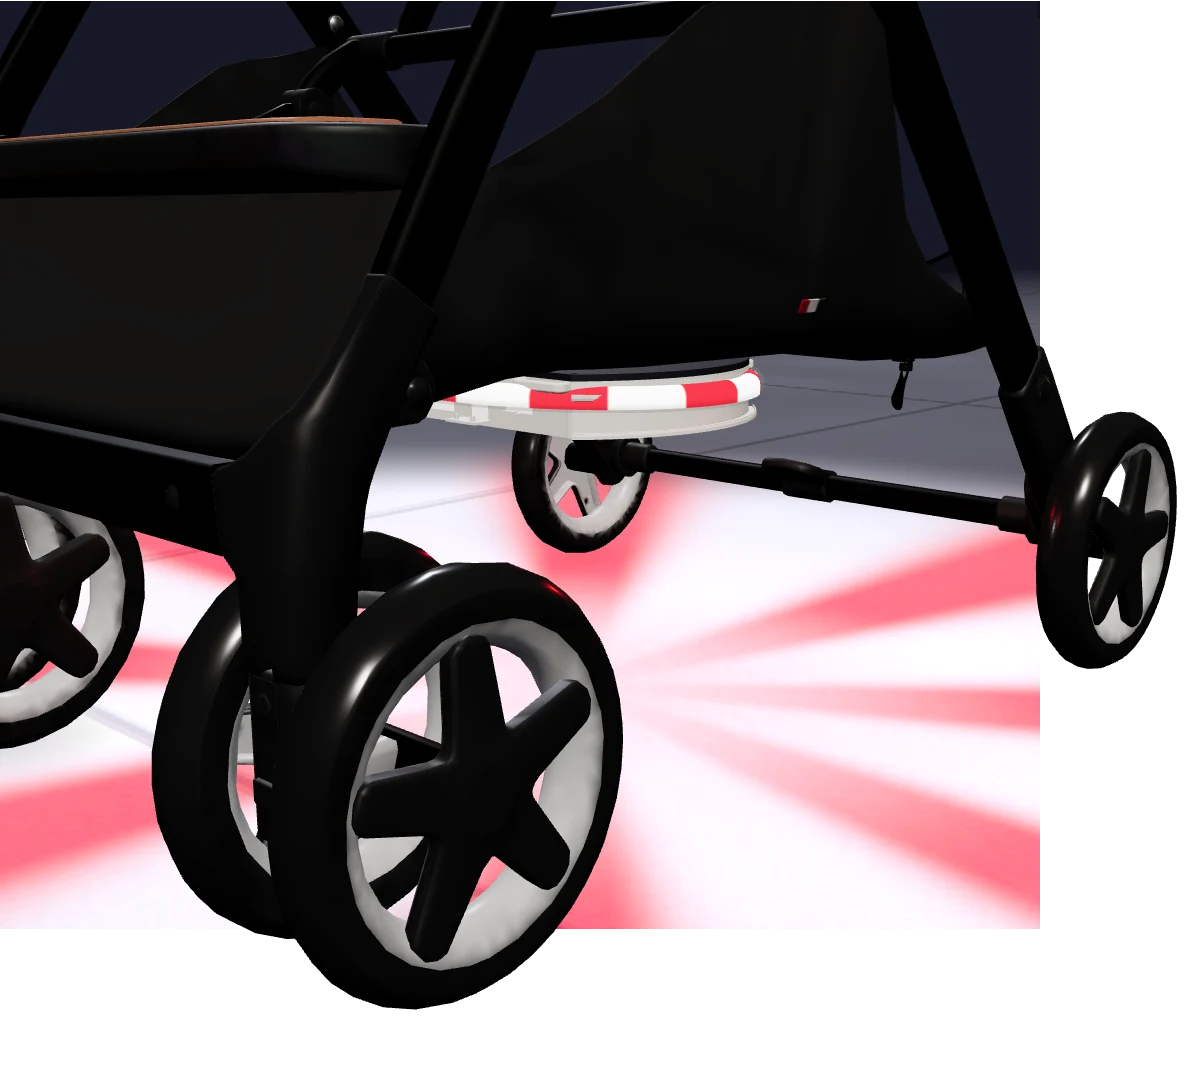
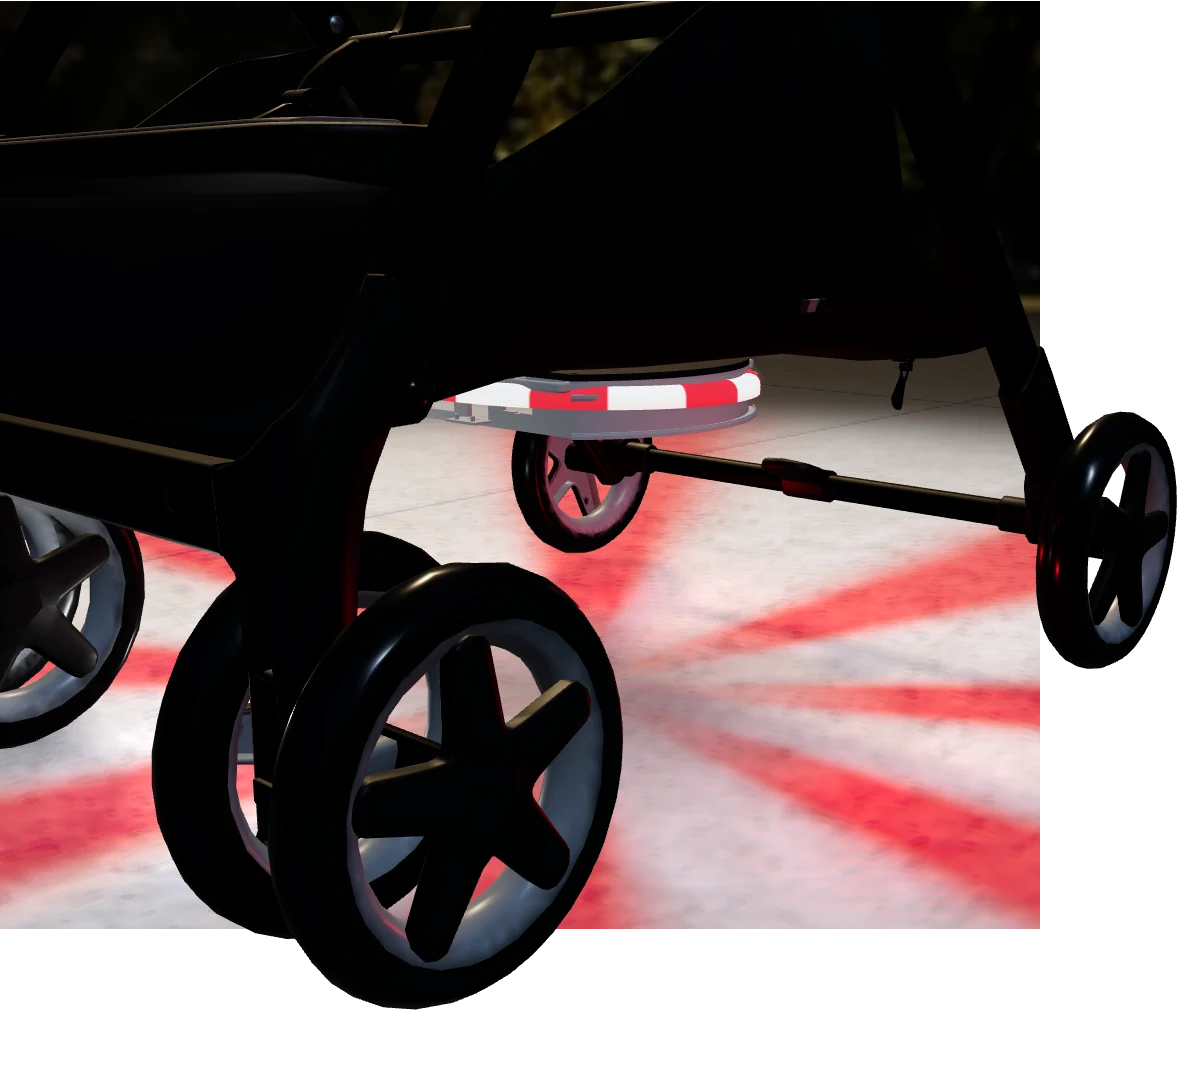
Refactor code structure for improved readability and maintainability

diff --git a/src/components/home/stroller-hero-scene.ts b/src/components/home/stroller-hero-scene.ts
@@ -39,12 +39,15 @@ const sidewalkPatternGLSL = `
     vec2 footprint = fwidth(grainUv);
     float grainVisibility = 1.0 - smoothstep(0.5, 1.8, max(footprint.x, footprint.y));
     float grain = (sidewalkNoise(grainUv) - 0.5) * grainVisibility;
+    // Fine aggregate and shallow pores break up the smooth, tiled appearance.
+    float aggregate = sidewalkNoise(world * 38.0) * 0.65 + sidewalkNoise(world * 83.0) * 0.35 - 0.5;
+    float pores = smoothstep(0.72, 0.88, sidewalkNoise(grainUv * 0.75)) * grainVisibility;
     float mottle = sidewalkNoise(world * sidewalkMottleScale) - 0.5;
     float slab = sidewalkHash(floor(grid)) - 0.5;
     float reflectance = (1.0 + slab * sidewalkSlabVariation + mottle * sidewalkMottleStrength
-      + grain * sidewalkGrainStrength) * (1.0 - seam * sidewalkSeamDarkness);
-    return vec3(reflectance, grain * sidewalkGrainDepth - seam * sidewalkSeamDepth,
-      (grain + seam) * sidewalkRoughnessVariation);
+      + grain * sidewalkGrainStrength + aggregate * 0.42 - pores * 0.18) * (1.0 - seam * sidewalkSeamDarkness);
+    return vec3(reflectance, (grain + aggregate * 0.6 - pores * 0.3) * sidewalkGrainDepth - seam * sidewalkSeamDepth,
+      (grain + aggregate + seam) * sidewalkRoughnessVariation);
   }
 `;
 
@@ -68,7 +71,7 @@ function createSidewalkUniforms() {
 }
 
 function createSidewalkMaterial(uniforms: ReturnType<typeof createSidewalkUniforms>) {
-  const material = new THREE.MeshStandardMaterial({ color: config.stage.floor.color, roughness: config.stage.floor.roughness });
+  const material = new THREE.MeshStandardMaterial({ color: config.stage.floor.color, roughness: config.stage.floor.roughness, transparent: true });
   material.onBeforeCompile = (shader) => {
     Object.assign(shader.uniforms, uniforms);
     shader.vertexShader = shader.vertexShader.replace("#include <common>", "#include <common>\nvarying vec3 vSidewalkWorld;")
@@ -77,7 +80,13 @@ function createSidewalkMaterial(uniforms: ReturnType<typeof createSidewalkUnifor
       .replace("#include <common>", `#include <common>\nvarying vec3 vSidewalkWorld;\n${sidewalkPatternGLSL}`)
       .replace("#include <color_fragment>", `#include <color_fragment>
         vec3 sidewalkDetail = sidewalkSurface(vSidewalkWorld.xz);
-        diffuseColor.rgb *= sidewalkDetail.x;`)
+        diffuseColor.rgb *= sidewalkDetail.x;
+        // Pull the unlit pavement closer behind the stroller; the separate
+        // device spill still illuminates the nearby concrete at full strength.
+        float pavementDistance = length(vSidewalkWorld.xz);
+        float behindStroller = smoothstep(-0.15, 0.55, -dot(vSidewalkWorld.xz, vec2(0.65, 0.76)));
+        diffuseColor.rgb *= mix(1.0, 0.18, behindStroller * smoothstep(0.45, 1.6, pavementDistance));
+        diffuseColor.a *= 1.0 - smoothstep(1.4, 4.0, pavementDistance);`)
       .replace("#include <roughnessmap_fragment>", `#include <roughnessmap_fragment>
         roughnessFactor = clamp(roughnessFactor + sidewalkDetail.z, 0.04, 1.0);`)
       .replace("#include <normal_fragment_maps>", `#include <normal_fragment_maps>
@@ -89,7 +98,7 @@ function createSidewalkMaterial(uniforms: ReturnType<typeof createSidewalkUnifor
           normal = normalize(abs(sidewalkDet) * normal - sign(sidewalkDet) * gradient);
         }`);
   };
-  material.customProgramCacheKey = () => "glowbaby-sidewalk-v1";
+  material.customProgramCacheKey = () => "glowbaby-sidewalk-v4";
   return material;
 }
 
@@ -221,13 +230,20 @@ export async function createHeroScene(host: HTMLElement, initialMode: LightMode,
     view.toneMapping = THREE.ACESFilmicToneMapping;
     view.toneMappingExposure = config.stage.exposure;
     view.shadowMap.enabled = true;
-    view.shadowMap.type = THREE.PCFSoftShadowMap;
+    view.shadowMap.type = THREE.PCFShadowMap;
     // Only the camera and light colors animate; reuse the static occlusion maps.
     view.shadowMap.autoUpdate = false;
     view.shadowMap.needsUpdate = true;
     view.debug.onShaderError = () => { throw new Error("Hero shader initialization failed"); };
-    const sceneBackground = new THREE.Color(config.environment.background);
+    const sceneBackground = resources.track(await new THREE.TextureLoader().loadAsync("/hero/night-park-environment.webp"));
+    signal?.throwIfAborted();
+    sceneBackground.mapping = THREE.EquirectangularReflectionMapping;
+    sceneBackground.colorSpace = THREE.SRGBColorSpace;
     scene.background = sceneBackground;
+    scene.environment = sceneBackground;
+    scene.environmentIntensity = 0.65;
+    scene.backgroundIntensity = 0.8;
+    scene.backgroundBlurriness = 0.025;
     scene.fog = new THREE.Fog(config.environment.background, config.stage.fogNear, config.stage.fogFar);
     const camera = new THREE.PerspectiveCamera(config.camera.fov, 1, 0.05, 12);
     const cameraTarget = new THREE.Vector3().fromArray(config.camera.target);
@@ -266,6 +282,22 @@ export async function createHeroScene(host: HTMLElement, initialMode: LightMode,
     const [stroller, bottom, top] = models.map((result) => {
       if (result.status !== "fulfilled") throw new Error("Missing model");
       return result.value.scene;
+    });
+    const mutedMaterials = new Set<THREE.Material>();
+    stroller.traverse((object) => {
+      if (!(object instanceof THREE.Mesh)) return;
+      for (const material of Array.isArray(object.material) ? object.material : [object.material]) {
+        if (!(material instanceof THREE.MeshStandardMaterial) || mutedMaterials.has(material)) continue;
+        mutedMaterials.add(material);
+        // Retain the original weave, seams and shading; mute the base color only.
+        material.onBeforeCompile = (shader) => {
+          shader.fragmentShader = shader.fragmentShader.replace("#include <color_fragment>", `#include <color_fragment>
+            float strollerLuma = dot(diffuseColor.rgb, vec3(0.2126, 0.7152, 0.0722));
+            diffuseColor.rgb = mix(vec3(strollerLuma), diffuseColor.rgb, 0.24) * vec3(0.79, 0.82, 0.84);`);
+        };
+        material.customProgramCacheKey = () => "muted-stroller-v1";
+        material.needsUpdate = true;
+      }
     });
     const strollerBounds = new THREE.Box3().setFromObject(stroller);
     const size = strollerBounds.getSize(new THREE.Vector3());
@@ -319,9 +351,20 @@ export async function createHeroScene(host: HTMLElement, initialMode: LightMode,
     const keyConfig = config.environment.key;
     const key = resources.track(new THREE.DirectionalLight(keyConfig.color, keyConfig.intensity));
     key.position.fromArray(keyConfig.position);
-    // Environment lights reveal the stroller, but must not imply an overhead shadow source.
-    key.castShadow = false;
-    scene.add(key);
+    // The warm park lamp shapes the canopy and casts real self-shadows into
+    // the seat and basket, rather than illuminating every surface equally.
+    key.target.position.set(0, 0.4, 0);
+    key.castShadow = true;
+    key.shadow.mapSize.setScalar(2048);
+    key.shadow.camera.left = key.shadow.camera.bottom = -1.5;
+    key.shadow.camera.right = key.shadow.camera.top = 1.5;
+    key.shadow.camera.near = 0.1;
+    key.shadow.camera.far = 8;
+    key.shadow.bias = -0.0001;
+    key.shadow.normalBias = 0.002;
+    key.shadow.radius = 7;
+    key.shadow.intensity = 0.55;
+    scene.add(key, key.target);
     const rim = resources.track(new THREE.DirectionalLight(config.environment.rim.color, config.environment.rim.intensity));
     rim.position.fromArray(config.environment.rim.position);
     scene.add(rim);
@@ -386,6 +429,10 @@ export async function createHeroScene(host: HTMLElement, initialMode: LightMode,
           float radius = length(p);
           float angle = atan(-p.y, p.x) / 6.2831853;
           vec3 color = spillLightColor(angle, time, mode);
+          // Angular colors converge softly instead of forming a pinwheel tip.
+          if (mode > 0.5 && mode < 1.5) {
+            color = mix(vec3(dot(color, vec3(0.2126, 0.7152, 0.0722))), color, smoothstep(0.01, 0.09, radius) * 0.85);
+          }
           float a = exp(-dot(p, p) * falloff) * (1.0 - smoothstep(edge.x, edge.y, radius));
           a *= mix(centerStrength, 1.0, smoothstep(0.0, centerRadius, radius));
           if (mode < 0.5) color = mix(holidayColor(0.5), color, smoothstep(0.0, centerBlendRadius, radius));
@@ -433,7 +480,16 @@ export async function createHeroScene(host: HTMLElement, initialMode: LightMode,
       light.shadow.bias = config.underglow.shadowBias;
       light.shadow.normalBias = config.underglow.shadowNormalBias;
       scene.add(light, light.target);
-      return { angle, light };
+      // A restrained approximation of colored light reflected off the pavement.
+      // Finite range keeps this fill below the seat; it follows the diffuser palette.
+      const bounce = resources.track(new THREE.PointLight("#ffffff", 0, config.bounce.distance, 2));
+      bounce.position.set(
+        config.assembly.position[0] + Math.cos(radians) * config.bounce.radius,
+        config.stage.floor.y + config.bounce.height,
+        config.assembly.position[2] + Math.sin(radians) * config.bounce.radius,
+      );
+      scene.add(bounce);
+      return { angle, light, bounce };
     });
     const overflowLayer = 1;
     inspection.traverse((object) => object.layers.enable(overflowLayer));
@@ -453,7 +509,7 @@ export async function createHeroScene(host: HTMLElement, initialMode: LightMode,
     const draw = () => {
       const cameraMask = camera.layers.mask;
       view.setScissorTest(false);
-      view.setClearColor(sceneBackground, 0);
+      view.setClearColor(config.environment.background, 0);
       view.clear(true, true, true);
       view.setScissor(viewportX, viewportY, viewportWidth, viewportHeight);
       view.setScissorTest(true);
@@ -547,15 +603,20 @@ export async function createHeroScene(host: HTMLElement, initialMode: LightMode,
       if (disposed) return;
       mode = next;
       lightMaterial.uniforms.mode.value = { holiday: 0, flow: 1, visibility: 2 }[next];
-      for (const { angle, light } of glowSamples) sampleLightColor(light.color, angle, elapsed, mode);
+      for (const { angle, light, bounce } of glowSamples) {
+        sampleLightColor(light.color, angle, elapsed, mode);
+        bounce.color.copy(light.color);
+      }
     };
     const updateLighting = (activation: number) => {
       lightMaterial.uniforms.time.value = elapsed;
       lightMaterial.uniforms.activation.value = activation;
       spillMaterial.uniforms.strength.value = config.spillOpacity * activation;
-      for (const { angle, light } of glowSamples) {
+      for (const { angle, light, bounce } of glowSamples) {
         light.intensity = config.lightIntensity / glowSamples.length * activation;
         sampleLightColor(light.color, angle, elapsed, mode);
+        bounce.intensity = config.bounce.intensity * activation;
+        bounce.color.copy(light.color);
       }
     };
     const render = (now: number) => {

diff --git a/src/components/home/hero-scene-config.ts b/src/components/home/hero-scene-config.ts
@@ -35,25 +35,25 @@ export const heroSceneConfig = {
     segments: 192,
   },
   stage: {
-    fogNear: 2.3,
-    fogFar: 7,
+    fogNear: 3,
+    fogFar: 13,
     exposure: 1,
-    floor: { color: "#575964", roughness: 0.94, size: 200, y: -0.006 },
+    floor: { color: "#555a65", roughness: 0.88, size: 200, y: -0.006 },
   },
   sidewalk: {
-    slabSize: [1.15, 1.35] as [number, number],
+    slabSize: [2.1, 2.35] as [number, number],
     offset: [0.42, 1.1] as [number, number],
-    seamWidth: 0.006,
-    seamSoftness: 0.003,
-    seamDarkness: 0.32,
-    seamDepth: 0.0015,
-    slabVariation: 0.055,
-    mottleScale: 7,
-    mottleStrength: 0.16,
-    grainScale: 350,
-    grainStrength: 0.09,
-    grainDepth: 0.00035,
-    roughnessVariation: 0.065,
+    seamWidth: 0.003,
+    seamSoftness: 0.002,
+    seamDarkness: 0.2,
+    seamDepth: 0.0008,
+    slabVariation: 0.035,
+    mottleScale: 5,
+    mottleStrength: 0.24,
+    grainScale: 170,
+    grainStrength: 0.24,
+    grainDepth: 0.0005,
+    roughnessVariation: 0.1,
   },
   materials: {
     base: { color: "#eee9e3", roughness: 0.48 },
@@ -83,23 +83,23 @@ export const heroSceneConfig = {
     white: [1, 1, 1] as [number, number, number],
   },
   environment: {
-    background: "#171827",
-    sky: "#ffffff",
-    ground: "#55535a",
-    intensity: 1.35,
+    background: "#101b24",
+    sky: "#bacde3",
+    ground: "#353b35",
+    intensity: 0.34,
     key: {
-      color: "#fff8f2", intensity: 2.1,
-      position: [2, 3, 2] as [number, number, number],
+      color: "#ffdda7", intensity: 2.3,
+      position: [-2, 2.6, -1.4] as [number, number, number],
     },
     rim: {
-      color: "#eef0ff", intensity: 0.7,
-      position: [-2, 1.7, -1.4] as [number, number, number],
+      color: "#bdd6f4", intensity: 0.7,
+      position: [2, 3, 1] as [number, number, number],
     },
   },
   // Faint local grounding at the actual wheel contacts, not a projected silhouette.
   contactShadow: {
     color: "#090911",
-    opacity: 0.14,
+    opacity: 0.38,
     sampleHeight: 0.012,
     mergeDistance: 0.035,
     spread: 0.035,
@@ -109,34 +109,36 @@ export const heroSceneConfig = {
     edgeStart: 0.55,
   },
   // Broad overlapping downward light approximates a continuous diffuser, not separate beams.
-  lightIntensity: 0.9,
+  lightIntensity: 0.65,
   underglow: {
     samples: 3,
-    distance: 1.6,
+    distance: 2.1,
     decay: 0,
     sourceOffsetY: -0.002,
     sourceOutset: 0.002,
     targetOffset: 0,
     coneAngle: Math.PI / 2 - Math.PI / 90,
     minimumDownwardAngle: Math.PI / 90,
-    penumbra: 0.15,
+    penumbra: 0.8,
     shadowSize: 512,
     shadowNear: 0.01,
     shadowBias: -0.00015,
     shadowNormalBias: 0.002,
   },
   // Floor-only soft bounce supplements the physically occluded direct light.
-  spillOpacity: 0.7,
+  spillOpacity: 0.66,
+  // Short-range pavement bounce subtly reveals the underside, not the canopy.
+  bounce: { intensity: 0.018, distance: 0.5, height: 0.025, radius: 0.18 },
   spill: {
-    size: [1.8, 1.55] as [number, number],
+    size: [2.7, 2.45] as [number, number],
     elevation: 0.003,
-    brightness: 0.95,
-    falloff: 1,
-    edgeStart: 0.3,
+    brightness: 1.02,
+    falloff: 2.2,
+    edgeStart: 0.32,
     edgeEnd: 0.5,
-    centerBlendRadius: 0.15,
-    centerStrength: 1,
-    centerRadius: 0.16,
+    centerBlendRadius: 0.07,
+    centerStrength: 0.55,
+    centerRadius: 0.075,
   },
   // Low three-quarter detail framing; product dimensions and mounting stay unchanged.
   camera: { position: [0.48, 0.235, 0.56] as [number, number, number], target: [0.02, 0.08, 0.065] as [number, number, number], fov: 42 },

diff --git a/src/app/globals.css b/src/app/globals.css
@@ -235,11 +235,9 @@ summary::-webkit-details-marker {
   position: absolute;
   inset: 0;
   background:
-    radial-gradient(circle at 22% 28%, rgba(25, 191, 242, 0.16), transparent 34%),
-    radial-gradient(circle at 80% 74%, rgba(90, 15, 234, 0.2), transparent 40%);
+    radial-gradient(ellipse at center, transparent 48%, rgba(5, 12, 18, 0.16));
   content: "";
   pointer-events: none;
-  mix-blend-mode: screen;
 }
 
 .static-hero-image {

diff --git a/docs/interactive-hero.md b/docs/interactive-hero.md
@@ -4,6 +4,18 @@ Branch: `codex/interactive-stroller-hero`.
 
 The main hero uses a dedicated static render of the real 3D stroller scene inside the organic artwork treatment, keeping the first view lightweight. The interactive scene appears in **Visibility works both ways**. Three matching rendered fallbacks and accessible mode buttons appear immediately, ordered **Visibility**, **Gradient**, **Holiday**. When protected delivery is configured, supported devices enhance automatically with no 3D switch; unsupported or failed clients keep the 2D render. Mouse and touch users drag in either direction inside the scene; page scrolling starts outside it. Releasing the scene returns it gently to its original view. The controls panel ends with the visible backdrop so the stroller breakout remains visually separate. The same scene works in the private local preview.
 
+## Night park art direction
+
+The full-stroller hero camera is slightly farther back and farther to the side, keeping the wheels within the organic crop and revealing more of the under-basket device. Stroller base colors are desaturated in the material shader while preserving the original textures, stitching, geometry and mounting dimensions. Cooler ambient light and a restrained warm key keep the upholstery readable after dark.
+
+`public/hero/night-park-environment.webp` is an AI-generated scenery-only panorama used as the softly blurred background and reflection environment. No stroller or product geometry was sent to image generation. The rendered concrete foreground fades into the panorama at a distance. The environment loads only with the 3D scene; the initial hero remains a single small static WebP. A failed environment load retains the existing poster fallback.
+
+The colored floor spill now has a subdued, desaturated center, broader coverage and feathered edges. Lower direct-light intensity and softer cones reduce concentrated color hotspots. These are visual treatments, not measured light output. Regenerate all four posters after changing the shared scene so the interactive and static versions stay consistent.
+
+The next local lighting pass expands the spill to 2.7 × 2.45 meters, raises its brightness and shortens the outer fade and subdued center. A directional warm park light now casts filtered self-shadows and a ground shadow, with a weaker cool fill so the stroller has shaded recesses and localized highlights. The shared shadow maps still update only when required, rather than on each animation frame.
+
+The foreground concrete uses larger 2.1 × 2.35 meter slabs, finer joints, a cooler gray base, and procedural aggregate and pores shared by the surface and colored spill. This approximates the panorama's pavement without baking its lighting into the foreground. The park-light shadow is reduced to 55% intensity with a wider filter, retaining wheel contact grounding.
+
 ## License and asset protection
 
 The supplied invoice identifies model 6931082, **Modern Baby Stroller Realistic Foldable Pram 3D Model**, seller **blackorgrey**, license **Royalty Free, No AI**. The invoice is not copied into the repository.
@@ -98,7 +110,7 @@ All four fresh 1200x1072 renders must succeed before any image is replaced. Mode
 - `npm run validate` runs TypeScript, ESLint and the production build.
 - `npm run hero:check` covers closed seam positions/normals, actual oval rotation at multiple angles/scales, shader tuning, optimizer budgets/default CAD topology/materials/UVs/source privacy, capture readiness, and protected bundle/delivery invariants.
 - `npm run hero:posters` loads and GPU-renders all actual models in each mode plus the full-stroller hero view, refusing shader or initialization errors. The current four images come from this command, not older captures.
-- Fixed-time PNG comparison shows the sampled basket region is pixel-identical across all three modes while the illuminated sidewalk changes substantially. Colored illumination no longer reaches the upper basket/interior.
+- Short-range colored pavement bounce now reaches the lower frame, wheels and basket underside. Its color and activation follow the selected diffuser mode; its limited range keeps it below the seat.
 - Broad physical-device/GPU profiling remains advisable. The visualization does not establish physical-device photometry, and technical delivery measures do not replace the applicable asset license.
 - Product-owner review: approximate under-basket mounting, suggested straps, material finish, brightness and channel envelope. These are prototype visualization choices, not final product specifications.
 
@@ -106,4 +118,4 @@ All four fresh 1200x1072 renders must succeed before any image is replaced. Mode
 
 The supplied undercarriage photograph shows a horizontal diffuser below the basket's lower frame, with different colors illuminating the wheels, frame and ground simultaneously. The visible portion supports that orientation but does not establish the full attachment method or precise dimensions on the purchased stroller. Mounting and strap details remain provisional.
 
-The final close-up uses that undercarriage relationship while restricting all colored light to downward/outward cones and the sidewalk. The prominent overhead shadow is removed; faint contact grounding and device-origin shadows remain. Concrete detail stays visible in the broader, brighter-looking glow. The reference informs qualitative color separation and appearance, not measured luminous output, weather resistance or final mounting hardware.
+The close-up uses that undercarriage relationship with downward/outward direct light and subtle short-range pavement bounce onto the underside. The central floor fade has a smaller radius and retains more color. A muted park-light shadow, contact grounding and device-origin shadows remain. Concrete detail stays visible in the broader glow. The reference informs qualitative color separation and appearance, not measured luminous output, weather resistance or final mounting hardware.
